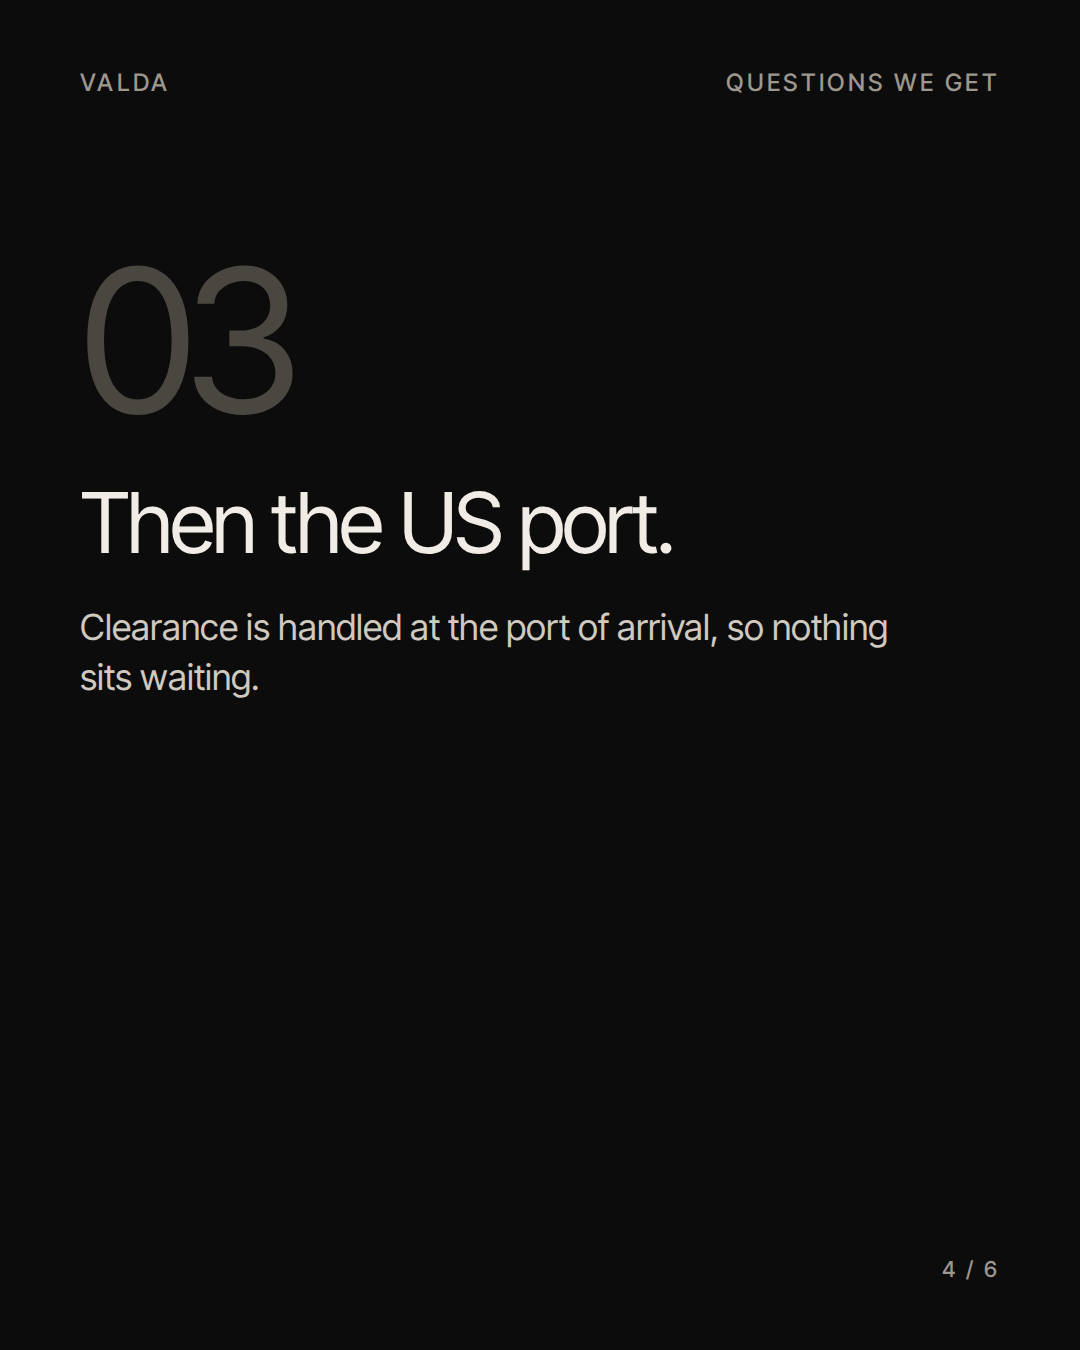
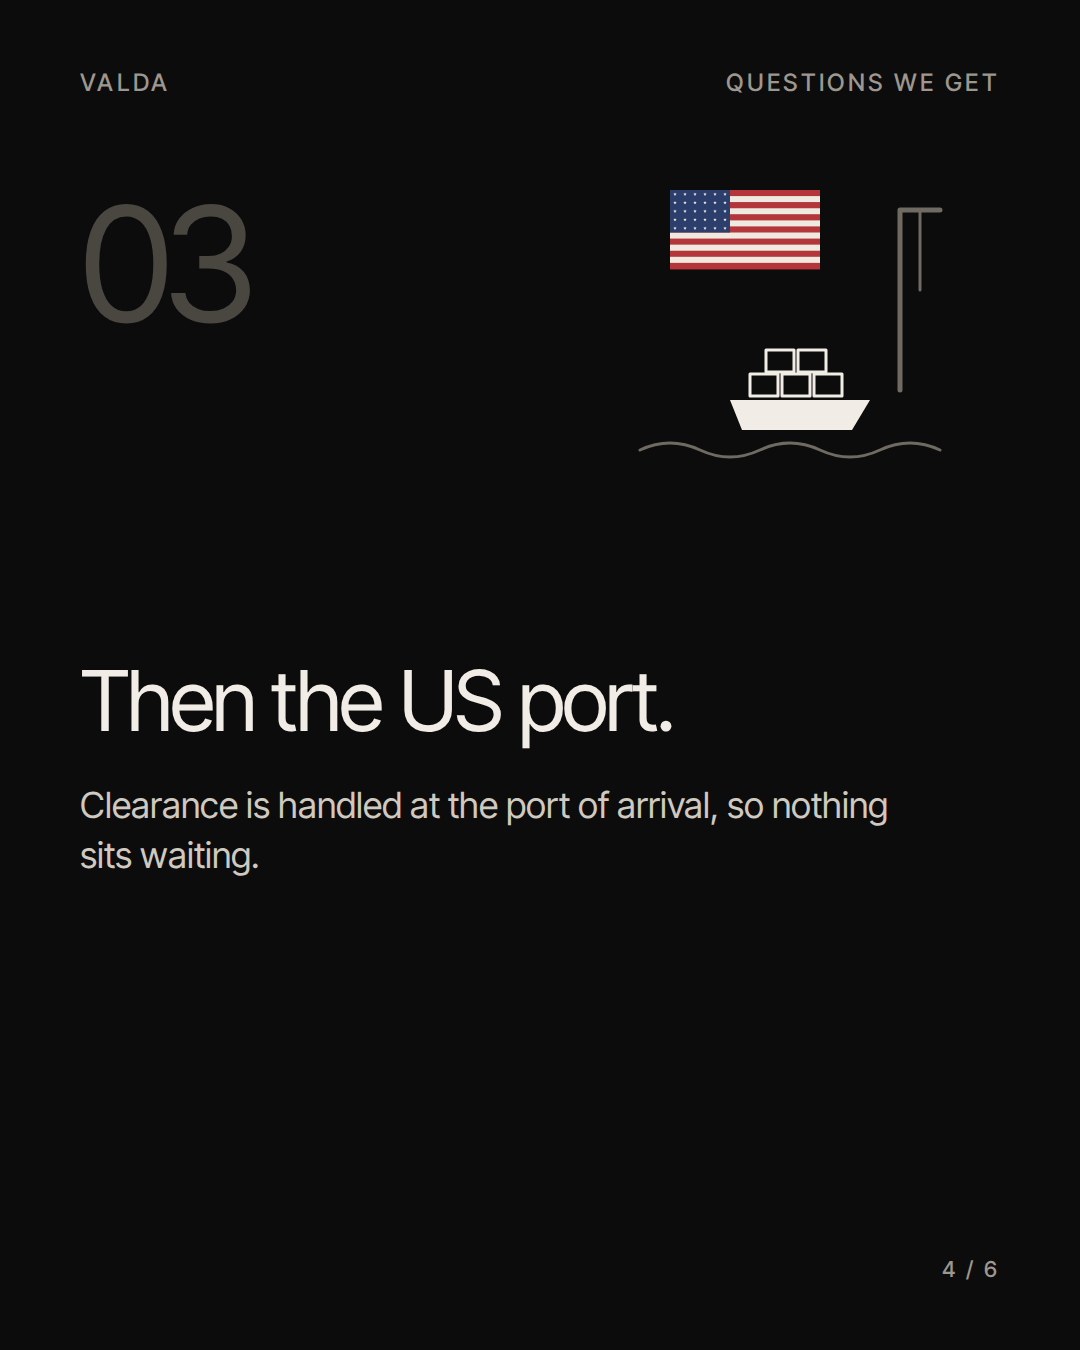
Black carousels: add flags and line drawings
Claude-Session: https://claude.ai/code/session_01Mb6qwypygEVdYvV9LqQBFE

diff --git a/social/series/black.html b/social/series/black.html
@@ -21,36 +21,75 @@ body{background:#222;display:flex;flex-direction:column;gap:40px}
 .body ul{list-style:none;padding:0;margin-top:40px;font:400 34px/1.35 IT;color:#cfc9bf}
 .body li{padding:18px 0;border-top:1.5px solid #2e2c29}
 .end .url{font:500 30px IT;color:#9d978d;margin-top:40px}
+.art{position:absolute;right:80px;top:150px;width:400px;height:400px}
+.art.wide{left:80px;right:80px;width:auto;top:200px;height:520px}
+.body.has-art .n{margin-bottom:330px;font-size:160px}
 </style></head><body>
 <script>
+
+// Line drawings and flags, drawn in SVG so they stay sharp. Off-white lines, one warm accent.
+const L='#f1ede6', M='#6f6a62', ACC='#d9a66b';
+const svg=(vb,inner,cls='art')=>`<svg class="${cls}" viewBox="${vb}" fill="none" stroke="${L}" stroke-width="3" stroke-linecap="round" stroke-linejoin="round">${inner}</svg>`;
+const star=(cx,cy,r,fill)=>{let d='';for(let i=0;i<10;i++){const a=-Math.PI/2+i*Math.PI/5,rr=i%2?r*.42:r;d+=(i?'L':'M')+(cx+rr*Math.cos(a)).toFixed(1)+' '+(cy+rr*Math.sin(a)).toFixed(1);}return `<path d="${d}Z" fill="${fill}" stroke="none"/>`;};
+const flagUS=(x,y,w)=>{const h=w*10/19,sh=h/13;let g=`<g transform="translate(${x} ${y})">`;
+ for(let i=0;i<13;i++)g+=`<rect x="0" y="${i*sh}" width="${w}" height="${sh+.5}" fill="${i%2?'#efe9df':'#b4353a'}" stroke="none"/>`;
+ const cw=w*.4,ch=sh*7;g+=`<rect width="${cw}" height="${ch}" fill="#2c3e6b" stroke="none"/>`;
+ for(let r=0;r<5;r++)for(let c=0;c<6;c++)g+=star(cw*(c+.5)/6,ch*(r+.5)/5,w*.012,'#efe9df');
+ return g+`</g>`;};
+const flagBG=(x,y,w)=>{const h=w*3/5;return `<g transform="translate(${x} ${y})"><rect width="${w}" height="${h/3}" fill="#efe9df" stroke="none"/><rect y="${h/3}" width="${w}" height="${h/3}" fill="#2f8a5d" stroke="none"/><rect y="${2*h/3}" width="${w}" height="${h/3}" fill="#c0403a" stroke="none"/></g>`;};
+const flagEU=(x,y,w)=>{const h=w*2/3;let g=`<g transform="translate(${x} ${y})"><rect width="${w}" height="${h}" fill="#26408f" stroke="none"/>`;
+ for(let i=0;i<12;i++){const a=i*Math.PI/6;g+=star(w/2+h/3*Math.cos(a),h/2+h/3*Math.sin(a),w*.035,'#f2c94c');}return g+`</g>`;};
+const pole=(x,y,h)=>`<line x1="${x}" y1="${y}" x2="${x}" y2="${y+h}" stroke="${M}" stroke-width="4"/><circle cx="${x}" cy="${y-6}" r="6" fill="${M}" stroke="none"/>`;
+const ship=(x,y)=>`<g transform="translate(${x} ${y})"><path d="M-70 0 L70 0 L52 30 L-58 30 Z" fill="${L}" stroke="none"/><rect x="-50" y="-26" width="28" height="22" stroke="${L}"/><rect x="-18" y="-26" width="28" height="22" stroke="${L}"/><rect x="14" y="-26" width="28" height="22" stroke="${L}"/><rect x="-34" y="-50" width="28" height="22" stroke="${L}"/><rect x="-2" y="-50" width="28" height="22" stroke="${L}"/></g>`;
+const truck=(x,y)=>`<g transform="translate(${x} ${y})"><rect x="-90" y="-60" width="120" height="70"/><path d="M30 -40 H70 L90 -15 V10 H30 Z"/><circle cx="-60" cy="22" r="14" fill="#0c0c0d"/><circle cx="60" cy="22" r="14" fill="#0c0c0d"/><line x1="-130" y1="40" x2="130" y2="40" stroke="${M}"/></g>`;
+const doc=(x,y)=>`<g transform="translate(${x} ${y})"><path d="M-70 -95 H40 L75 -60 V95 H-70 Z"/><path d="M40 -95 V-60 H75"/><line x1="-45" y1="-35" x2="45" y2="-35" stroke="${M}"/><line x1="-45" y1="-5" x2="45" y2="-5" stroke="${M}"/><line x1="-45" y1="25" x2="20" y2="25" stroke="${M}"/><circle cx="35" cy="65" r="26" stroke="${ACC}"/><path d="M22 65 l9 9 l17 -18" stroke="${ACC}"/></g>`;
+const ART={
+ route:svg('0 0 920 520',`${pole(90,90,330)}${flagBG(94,90,170)}${pole(700,90,330)}${flagUS(704,90,190)}
+  <path d="M190 330 Q 450 120 700 330" stroke="${ACC}" stroke-dasharray="4 16" stroke-width="4"/>${ship(450,300)}
+  <path d="M300 400 q30 -14 60 0 t60 0 t60 0 t60 0 t60 0" stroke="${M}"/><text x="90" y="480" fill="${M}" stroke="none" font-family="IT" font-size="26" letter-spacing="3">SOFIA</text><text x="700" y="480" fill="${M}" stroke="none" font-family="IT" font-size="26" letter-spacing="3">YOUR SITE</text>`,'art wide'),
+ twoFlags:svg('0 0 400 400',`${pole(60,70,280)}${flagBG(64,70,120)}${pole(220,70,280)}${flagUS(224,70,140)}<path d="M120 300 H300" stroke="${ACC}" stroke-dasharray="4 14"/>`),
+ doc:svg('0 0 400 400',`${flagEU(250,40,110)}${doc(170,220)}`),
+ port:svg('0 0 400 400',`${ship(200,250)}<path d="M40 300 q30 -14 60 0 t60 0 t60 0 t60 0 t60 0" stroke="${M}"/><path d="M300 240 V60 H340" stroke="${M}" stroke-width="5"/><line x1="320" y1="60" x2="320" y2="140" stroke="${M}"/>${flagUS(70,40,150)}`),
+ truck:svg('0 0 400 400',`${truck(200,250)}<path d="M60 120 C 140 60 260 160 340 90" stroke="${ACC}" stroke-dasharray="4 14"/><circle cx="340" cy="90" r="10" fill="${ACC}" stroke="none"/>`),
+ shield:svg('0 0 400 400',`<path d="M200 50 L320 95 V200 C320 280 260 330 200 355 C140 330 80 280 80 200 V95 Z"/><path d="M150 205 l35 35 l70 -75" stroke="${ACC}" stroke-width="5"/><path d="M40 330 q20 -30 40 0 t40 0" stroke="${M}"/><path d="M290 70 q30 -20 70 -5" stroke="${M}"/><path d="M300 110 q30 -20 70 -5" stroke="${M}"/>`),
+ thermo:svg('0 0 400 400',`<rect x="110" y="60" width="180" height="280"/><line x1="200" y1="60" x2="200" y2="340" stroke="${M}"/>${[120,190,260].map(y=>`<path d="M30 ${y} H95" stroke="${ACC}"/><path d="M80 ${y-12} L95 ${y} L80 ${y+12}" stroke="${ACC}"/><path d="M305 ${y} H335" stroke="${M}" stroke-dasharray="3 10"/>`).join('')}`),
+ swing:svg('0 0 400 400',`<line x1="60" y1="300" x2="340" y2="300" stroke="${M}"/><line x1="100" y1="300" x2="300" y2="300" stroke-width="8"/><line x1="100" y1="300" x2="190" y2="130" stroke-width="5"/><path d="M300 300 A200 200 0 0 0 190 130" stroke="${ACC}" stroke-dasharray="4 12"/><text x="60" y="350" fill="${M}" stroke="none" font-family="IT" font-size="22" letter-spacing="3">OUTSIDE</text><text x="60" y="90" fill="${M}" stroke="none" font-family="IT" font-size="22" letter-spacing="3">INSIDE</text>`),
+ clock:svg('0 0 400 400',`<circle cx="160" cy="200" r="120"/><path d="M160 200 V120 M160 200 L215 230" stroke="${ACC}" stroke-width="5"/>${[0,1,2,3,4,5,6,7,8,9,10,11].map(i=>{const a=i*Math.PI/6;return `<line x1="${160+105*Math.cos(a)}" y1="${200+105*Math.sin(a)}" x2="${160+114*Math.cos(a)}" y2="${200+114*Math.sin(a)}" stroke="${M}"/>`}).join('')}<path d="M300 300 q20 -10 40 0 t40 0" stroke="${M}"/>`),
+ handoff:svg('0 0 400 400',`${doc(110,200)}${truck(285,300)}`),
+ window:svg('0 0 400 400',`<rect x="90" y="40" width="220" height="320"/><rect x="110" y="60" width="180" height="280" stroke="${M}"/><line x1="200" y1="60" x2="200" y2="340" stroke="${M}"/>`),
+ sunGlass:svg('0 0 400 400',`<circle cx="80" cy="90" r="40" stroke="${ACC}"/>${[0,1,2,3,4,5,6,7].map(i=>{const a=i*Math.PI/4;return `<line x1="${80+52*Math.cos(a)}" y1="${90+52*Math.sin(a)}" x2="${80+70*Math.cos(a)}" y2="${90+70*Math.sin(a)}" stroke="${ACC}"/>`}).join('')}<rect x="200" y="60" width="40" height="300"/><path d="M130 150 L330 330" stroke="${ACC}" stroke-dasharray="4 12"/><path d="M200 210 L130 280" stroke="${M}"/>`),
+ light:svg('0 0 400 400',`<rect x="160" y="50" width="40" height="300"/>${[110,170,230,290].map(y=>`<line x1="40" y1="${y}" x2="150" y2="${y}" stroke="${ACC}"/><line x1="210" y1="${y}" x2="360" y2="${y}" stroke="${ACC}" stroke-dasharray="${y%120?'0':'4 12'}"/>`).join('')}`),
+ sound:svg('0 0 400 400',`<rect x="190" y="50" width="40" height="300"/>${[50,85,120].map(r=>`<path d="M${150-r*.2} ${200-r} A${r} ${r} 0 0 1 ${150-r*.2} ${200+r}" stroke="${ACC}" transform="translate(-60 0)"/>`).join('')}<path d="M270 180 A25 25 0 0 1 270 220" stroke="${M}"/>`),
+ wind:svg('0 0 400 400',`<rect x="250" y="50" width="40" height="300"/>${[110,200,290].map(y=>`<path d="M30 ${y} H200 q30 0 30 -25" stroke="${ACC}" stroke-width="4"/><path d="M215 ${y-12} L232 ${y} L215 ${y+12}" stroke="${ACC}" transform="translate(-30 0)"/>`).join('')}`),
+ glossCover:svg('0 0 920 520',`<rect x="330" y="20" width="260" height="380"/><line x1="460" y1="20" x2="460" y2="400" stroke="${M}"/>${[['U',80],['SHGC',150],['VT',220],['STC',290],['DP',360]].map(([t,y],i)=>`<line x1="${i%2?600:180}" y1="${y}" x2="${i%2?740:320}" y2="${y}" stroke="${M}" stroke-dasharray="3 10"/><text x="${i%2?760:20}" y="${y+12}" fill="${ACC}" stroke="none" font-family="IT" font-size="36">${t}</text>`).join('')}`,'art wide')};
 const SETS={
  customs:{tag:'Questions we get',slides:[
-  {cover:1,k:'Questions we get',h:'Who clears<br><em>US customs?</em>'},
-  {n:'01',h:'We can.<br>Or your broker can.',p:'Use our customs clearance, or ship to your own customs broker. Your choice, on every order.'},
-  {n:'02',h:'The paperwork starts in Bulgaria.',p:'Export documents are prepared at our factory before the windows leave Europe.'},
-  {n:'03',h:'Then the US port.',p:'Clearance is handled at the port of arrival, so nothing sits waiting.'},
-  {n:'04',h:'Then your site.',p:'Delivered by truck to your job site, coast to coast.'},
-  {end:1,h:'One point of contact, from the <em>factory</em> to the final window.',url:'valdagroup.com'}]},
+  {art:'route',cover:1,k:'Questions we get',h:'Who clears<br><em>US customs?</em>'},
+  {art:'twoFlags',n:'01',h:'We can.<br>Or your broker can.',p:'Use our customs clearance, or ship to your own customs broker. Your choice, on every order.'},
+  {art:'doc',n:'02',h:'The paperwork starts in Bulgaria.',p:'Export documents are prepared at our factory before the windows leave Europe.'},
+  {art:'port',n:'03',h:'Then the US port.',p:'Clearance is handled at the port of arrival, so nothing sits waiting.'},
+  {art:'truck',n:'04',h:'Then your site.',p:'Delivered by truck to your job site, coast to coast.'},
+  {art:'twoFlags',end:1,h:'One point of contact, from the <em>factory</em> to the final window.',url:'valdagroup.com'}]},
  checks:{tag:'Before you order',slides:[
-  {cover:1,k:'Before you order European windows',h:'Five things<br>to <em>check.</em>'},
-  {n:'01',h:'The approval for your zone.',p:'On the hurricane coast, check the impact rating and design pressure for your exact wind zone and window size.'},
-  {n:'02',h:'The U-factor for your climate.',p:'Compare whole-window figures, frame and glass together, against your energy code.'},
-  {n:'03',h:'The opening direction.',p:'Inswing windows need clear space inside and a screen on the outside. Outswing is the reverse.'},
-  {n:'04',h:'The lead time.',p:'Production plus the Atlantic crossing. Plan it into your schedule from the start.'},
-  {n:'05',h:'Who handles customs and delivery.',p:'Know who clears the windows at the port and who brings them to site.'},
+  {art:'route',cover:1,k:'Before you order European windows',h:'Five things<br>to <em>check.</em>'},
+  {art:'shield',n:'01',h:'The approval for your zone.',p:'On the hurricane coast, check the impact rating and design pressure for your exact wind zone and window size.'},
+  {art:'thermo',n:'02',h:'The U-factor for your climate.',p:'Compare whole-window figures, frame and glass together, against your energy code.'},
+  {art:'swing',n:'03',h:'The opening direction.',p:'Inswing windows need clear space inside and a screen on the outside. Outswing is the reverse.'},
+  {art:'clock',n:'04',h:'The lead time.',p:'Production plus the Atlantic crossing. Plan it into your schedule from the start.'},
+  {art:'handoff',n:'05',h:'Who handles customs and delivery.',p:'Know who clears the windows at the port and who brings them to site.'},
   {end:1,h:'Send us your openings. We will check all <em>five</em> for you.',url:'valdagroup.com'}]},
  glossary:{tag:'Window glossary',slides:[
-  {cover:1,k:'Window glossary',h:'Five numbers on every<br><em>window spec.</em>'},
-  {n:'U',h:'U-factor',p:'How much heat passes through the whole window. Lower is better.'},
-  {n:'SHGC',h:'Solar heat gain',p:'How much of the sun’s heat gets through, from 0 to 1. Lower keeps a room cooler.'},
-  {n:'VT',h:'Visible transmittance',p:'How much daylight gets through, from 0 to 1. Higher means brighter rooms.'},
-  {n:'STC',h:'Sound transmission class',p:'How well the window blocks noise. Higher is quieter.'},
-  {n:'DP',h:'Design pressure',p:'The wind load the window is rated for. Higher means stronger.'},
+  {art:'glossCover',cover:1,k:'Window glossary',h:'Five numbers on every<br><em>window spec.</em>'},
+  {art:'thermo',n:'U',h:'U-factor',p:'How much heat passes through the whole window. Lower is better.'},
+  {art:'sunGlass',n:'SHGC',h:'Solar heat gain',p:'How much of the sun’s heat gets through, from 0 to 1. Lower keeps a room cooler.'},
+  {art:'light',n:'VT',h:'Visible transmittance',p:'How much daylight gets through, from 0 to 1. Higher means brighter rooms.'},
+  {art:'sound',n:'STC',h:'Sound transmission class',p:'How well the window blocks noise. Higher is quieter.'},
+  {art:'wind',n:'DP',h:'Design pressure',p:'The wind load the window is rated for. Higher means stronger.'},
   {end:1,h:'Save this for your next <em>spec.</em>',url:'valdagroup.com'}]}};
 const KEY=new URLSearchParams(location.search).get('s')||'customs', D=SETS[KEY], N=D.slides.length;
-document.write(D.slides.map((s,i)=>`<section class="s"><div class="top"><span>VALDA</span><span>${D.tag}</span></div>
+document.write(D.slides.map((s,i)=>`<section class="s">${s.art?ART[s.art]:''}<div class="top"><span>VALDA</span><span>${D.tag}</span></div>
  ${s.cover?`<div class="cover"><div class="k">${s.k}</div><h1>${s.h}</h1></div>`
  :s.end?`<div class="body end" style="top:auto;bottom:220px"><h2>${s.h}</h2><div class="url">${s.url}</div></div>`
- :`<div class="body"><div class="n">${s.n}</div><h2>${s.h}</h2><p>${s.p}</p></div>`}
+ :`<div class="body${s.art?' has-art':''}" style="top:200px"><div class="n">${s.n}</div><h2>${s.h}</h2><p>${s.p}</p></div>`}
  <div class="foot"><span>${i===0?'Swipe →':''}</span><span>${i+1} / ${N}</span></div></section>`).join(''));
 </script></body></html>
